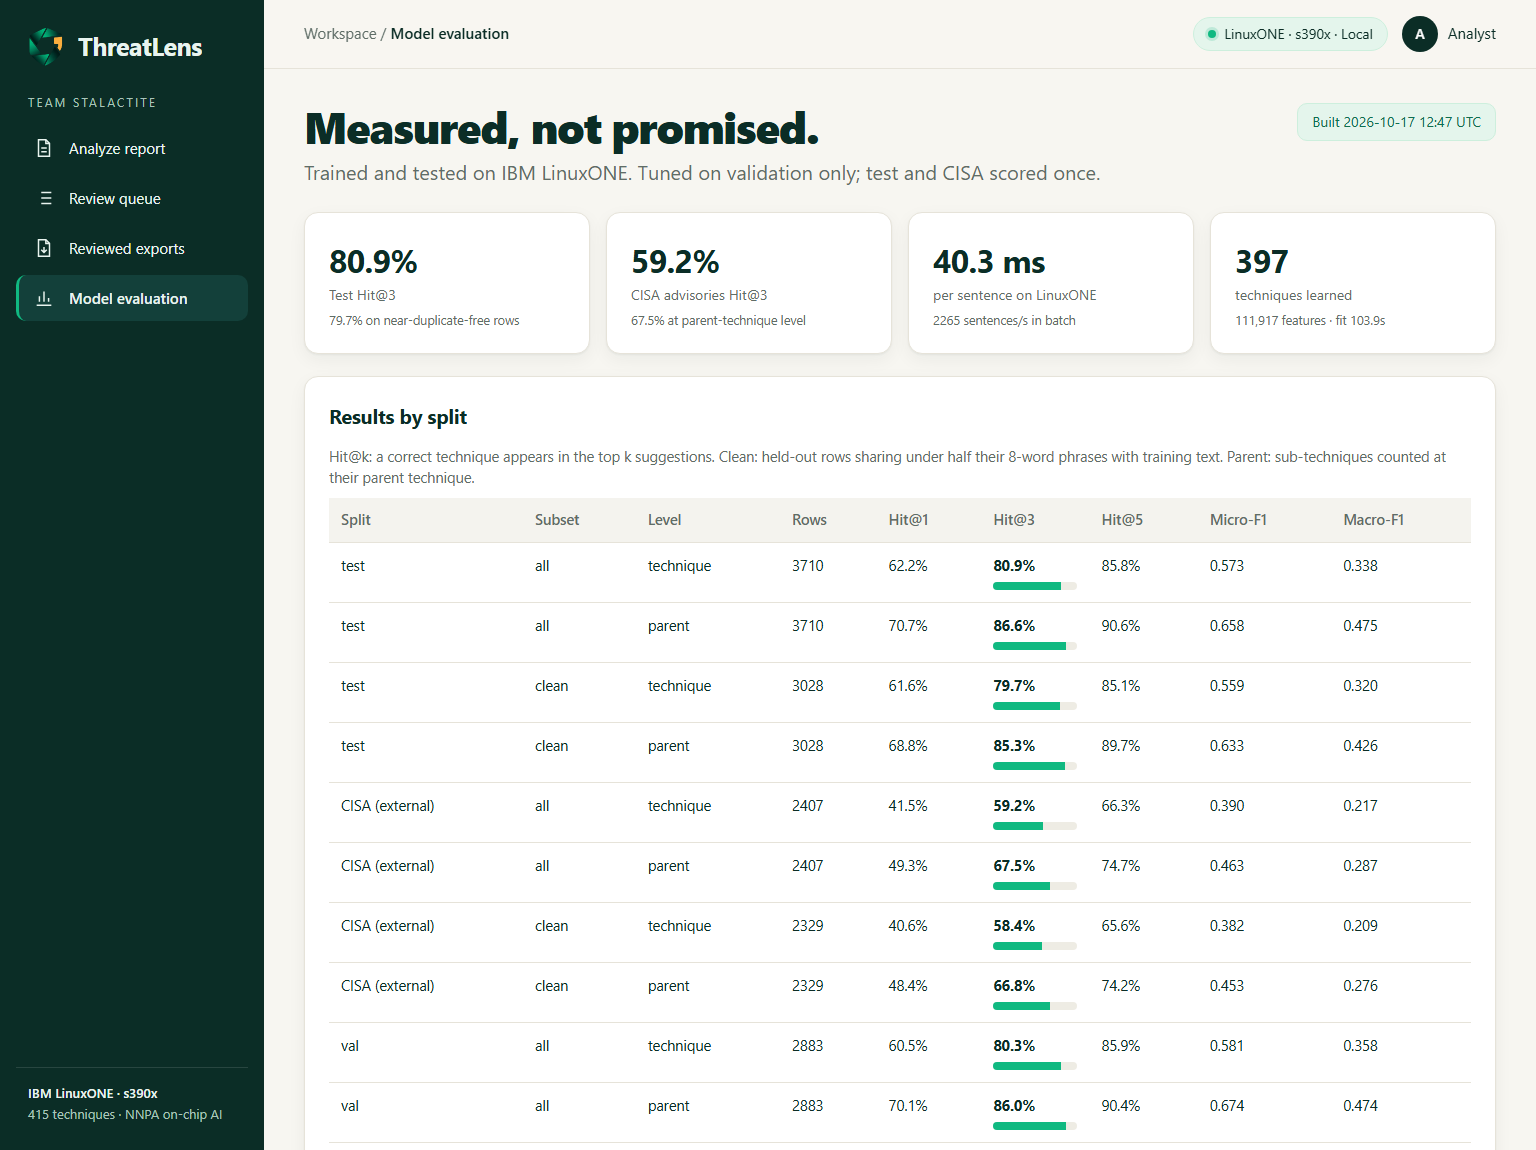
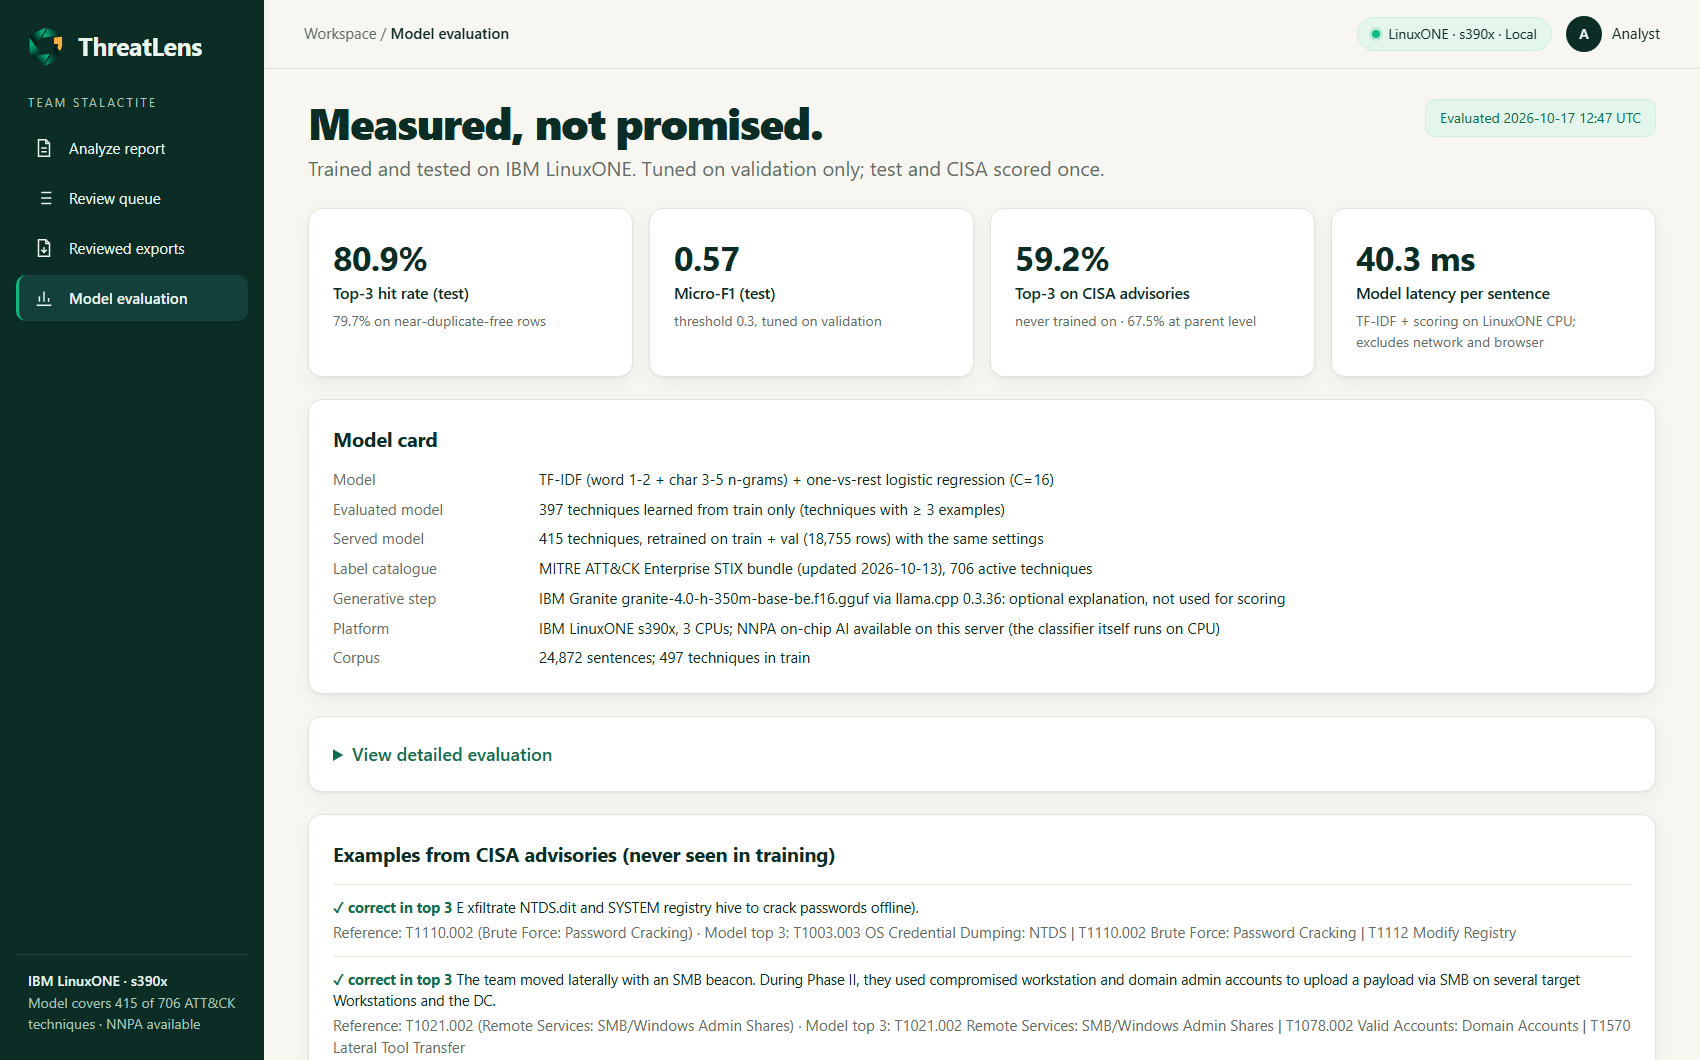
Add submission pack: pitch deck PDF, detailed architecture diagram, form answers
- 12-slide deck with MAHE Dubai logo and full team
- architecture diagram (SVG/PNG/PDF) generated from source
- remove confidence badge from suggestion cards; demo sample shows masking
- README lists team, university and submission files

diff --git a/app/static/app.js b/app/static/app.js
@@ -67,8 +67,6 @@ function decide(i, decision, extra = {}) {
 }
 const pending = () => state.decisions.filter((d) => d.decision === "pending").length;
 const DECISION_TEXT = { accepted: "✓ Accepted", corrected: "✎ Corrected", rejected: "✕ Rejected", pending: "! Needs review" };
-const MATCH = { high: "Strong match", medium: "Possible match", low: "Low relevance · may not apply" };
-const SCORE_TIP = "Classifier probability for this technique: a ranking signal, not verified accuracy.";
 
 function picker(i) {
   const s = state.analysis.suggestions[i];
@@ -182,9 +180,7 @@ function suggestionCard(s, i) {
     h("div", {},
       h("div", { class: "tid" }, s.technique_id),
       h("h3", {}, s.name),
-      h("div", { class: "chips" },
-        h("span", { class: `chip conf-${s.confidence}`, title: SCORE_TIP }, `${MATCH[s.confidence]} · model score ${s.score.toFixed(2)}`),
-        s.tactics.map((t) => h("span", { class: "chip" }, t))),
+      h("div", { class: "chips" }, s.tactics.map((t) => h("span", { class: "chip" }, t))),
       h("p", { class: "desc" }, s.summary),
       h("div", { class: "quote" }, h("span", { class: "quote-h" }, "Evidence from the passage"), "“", highlight(s.evidence, [{ terms: s.evidence_terms, cls: `r${i + 1}` }]), "”"),
       h("div", { class: "actions" },
@@ -391,9 +387,15 @@ window.addEventListener("hashchange", () => { state.picker = null; render(); });
   }
   render();
   // Deep link for demos: #/analyze?sample=1 (or #/queue?sample=1) fills and analyses that sample.
-  const n = Number(new URLSearchParams(location.hash.split("?")[1] || "").get("sample"));
+  const params = new URLSearchParams(location.hash.split("?")[1] || "");
+  const n = Number(params.get("sample"));
   if (n && state.samples[n - 1]) {
     state.text = state.samples[n - 1].text;
     await analyze(document.querySelector(".primary"));
+    // &explain=1 also asks Granite about the first suggestion (for demos and screenshots).
+    if (params.get("explain") && state.analysis) {
+      const btn = [...document.querySelectorAll(".btn")].find((b) => b.textContent.startsWith("AI explanation"));
+      if (btn) await explain(0, btn);
+    }
   }
 })();

diff --git a/app/server.py b/app/server.py
@@ -74,8 +74,9 @@ class App:
         REVIEWS.mkdir(parents=True, exist_ok=True)
 
     def _samples(self):
-        demo = [{"title": "PowerShell + credential dumping",
-                 "text": "The attackers used PowerShell to download additional tools, then dumped credentials from LSASS memory."}]
+        demo = [{"title": "Demo: PowerShell, credential dumping, phishing (with values to mask)",
+                 "text": "The attackers used PowerShell to download additional tools from 185.141.61[.]246, then dumped "
+                         "credentials from LSASS memory. They emailed staff at evil-corp.com with malicious Word attachments."}]
         path = ROOT / "data" / "processed" / "external_test.csv"
         with open(path, encoding="utf-8", newline="") as f:
             rows = [r for r in csv.DictReader(f)

diff --git a/docs/PITCH.md b/docs/PITCH.md
@@ -11,13 +11,13 @@ Judging (10 points each): **community value and theme fit**, **novelty**, **tech
 |---|---|---|
 | 0:00–0:20 | Brand board (`design/brand-board.png`) | "Security teams translate long threat reports into MITRE ATT&CK by hand. It's slow, it needs scarce experts, and the reports are sensitive. Pasting them into a public AI service exposes the victim's systems. We built ThreatLens: clarity without exposure." |
 | 0:20–0:40 | Data slide: 4 datasets → 24,872 sentences | "We combined four public labelled datasets and 82 CISA advisories into one corpus on LinuxONE. We updated old ATT&CK IDs, and we removed answers hidden in the text, such as technique IDs and table labels, so the model can't cheat." |
-| 0:40–1:40 | **Live app** at `http://localhost:8050/#/analyze`. Paste a passage containing an IP and a domain, then click Suggest techniques | "The IP and domain are masked before anything else happens. In about 60 milliseconds on LinuxONE we get three ATT&CK techniques. Each comes with the sentence that supports it and the words that drove the score, taken from the model's own weights. If I ask *Why?*, IBM Granite explains it, running locally on LinuxONE." |
+| 0:40–1:40 | **Live app** at `http://localhost:8050/#/analyze`. Paste a passage containing an IP and a domain, then click Suggest techniques | "The IP and domain are masked before anything else happens. In about 60 milliseconds on LinuxONE we get three ATT&CK techniques. Each comes with the sentence that supports it and the words that drove the score, taken from the model's own weights. If I click *AI explanation*, IBM Granite explains it, generated on LinuxONE." |
 | 1:40–2:10 | Click **Correct** → choose an alternative; open Review queue; Accept / Change; Save review; Export CSV | "The analyst stays in control: accept, change or reject, and add a note. Saved reviews and exports contain only the masked text." |
 | 2:10–2:35 | Model evaluation page | "We report honest numbers: 81% top-3 on held-out test data, 80% after removing near-duplicates, and 59% on CISA advisories the model never saw. That gap is why ThreatLens suggests and a human decides." |
 | 2:35–2:55 | Jupyter: `htop` with 3 busy Python processes during training, plus the evidence notebook showing `s390x` and `NNPA present` | "Everything runs in a container on IBM LinuxONE. We trained on all three cores, Granite runs through llama.cpp built with IBM zDNN, and the app is reachable only through an encrypted SSH tunnel to a socket, with no open ports." |
 | 2:55–3:00 | Logo | "ThreatLens: powerful AI, protected data. Team Stalactite." |
 
-**Recording tips:** record the app at 1536×960 or larger. Use `#/analyze?sample=1` for a guaranteed clean first result. Keep the video under 3:00, because the time limit is part of the score.
+**Recording tips:** record the app at 1536×960 or larger. Use `#/analyze?sample=1` for a guaranteed clean first result (it includes an IP and a domain to show masking). Keep the video under 3:00, because the time limit is part of the score.
 
 ## Deck outline (8 slides)
 
@@ -37,6 +37,6 @@ Judging (10 points each): **community value and theme fit**, **novelty**, **tech
 - [ ] Evidence notebook cell 1: `Architecture: s390x`, `NNPA (on-chip AI): present`
 - [ ] App top bar showing "LinuxONE · s390x · Local", plus the "Private by design" card with the live LinuxONE timing
 - [ ] Masked passage with `[IP]` / `[DOMAIN]` chips (security)
-- [ ] Granite "Why?" explanation with "running locally on LinuxONE"
+- [ ] Granite "AI explanation" box ("generated on LinuxONE")
 - [ ] Model evaluation page
 - [ ] Both IBM labs executed: `shared/threatlens/labs/Lab1…html`, `Lab2…html`

diff --git a/README.md b/README.md
@@ -4,6 +4,12 @@
 
 Team **Stalactite** · IBM Z Datathon 2026 · Theme 2: **AI Secured: Innovation Without Exposure** (Powerful AI. Protected Data.)
 
+**Team Stalactite, Manipal Academy of Higher Education, Dubai Campus:** Muhammad Rizwan, Shaurav Divyesh Vora,
+Shabnam Haseena, Amardev Anishkumar, Disha Gowda, Rijun Jude Kaniyampurath
+
+**Submission pack:** [pitch deck (PDF)](submission/Stalactite_IBM%20Z%20Datathon%202026%20Project.pdf) ·
+[architecture diagram (PDF)](submission/ThreatLens_Architecture.pdf) · [all submission files](submission/)
+
 ![ThreatLens analysing a passage on LinuxONE](docs/screenshots/analyze.png)
 
 ## The problem
@@ -46,6 +52,10 @@ Everything runs in the `notebook` container on our IBM LinuxONE Community Cloud 
 | Generative AI | IBM Granite 4.0 H 350M via `llama-cpp-python`, built with the IBM zDNN backend (the NNPA on-chip AI accelerator is present on this server) |
 | Security | The app listens on a **Unix socket inside the container**, not a network port. Users reach it only through an authenticated, encrypted SSH tunnel. No report text leaves the server. |
 | Evidence | `notebooks/ThreatLens_LinuxONE_demo.ipynb` runs the whole flow on s390x with saved outputs |
+
+![ThreatLens architecture on IBM LinuxONE](submission/ThreatLens_Architecture.png)
+
+Simplified view:
 
 ```mermaid
 flowchart LR

diff --git a/docs/SUBMISSION.md b/docs/SUBMISSION.md
@@ -37,7 +37,7 @@ Full list: https://github.com/RizwanBuhari/Stalactite-ThreatLens#open-source-res
 
 ## Any other document (architecture diagram)
 ```
-https://github.com/RizwanBuhari/Stalactite-ThreatLens#how-it-uses-ibm-z--linuxone
+https://github.com/RizwanBuhari/Stalactite-ThreatLens/blob/main/submission/ThreatLens_Architecture.pdf
 ```
 
 ## Still to provide
